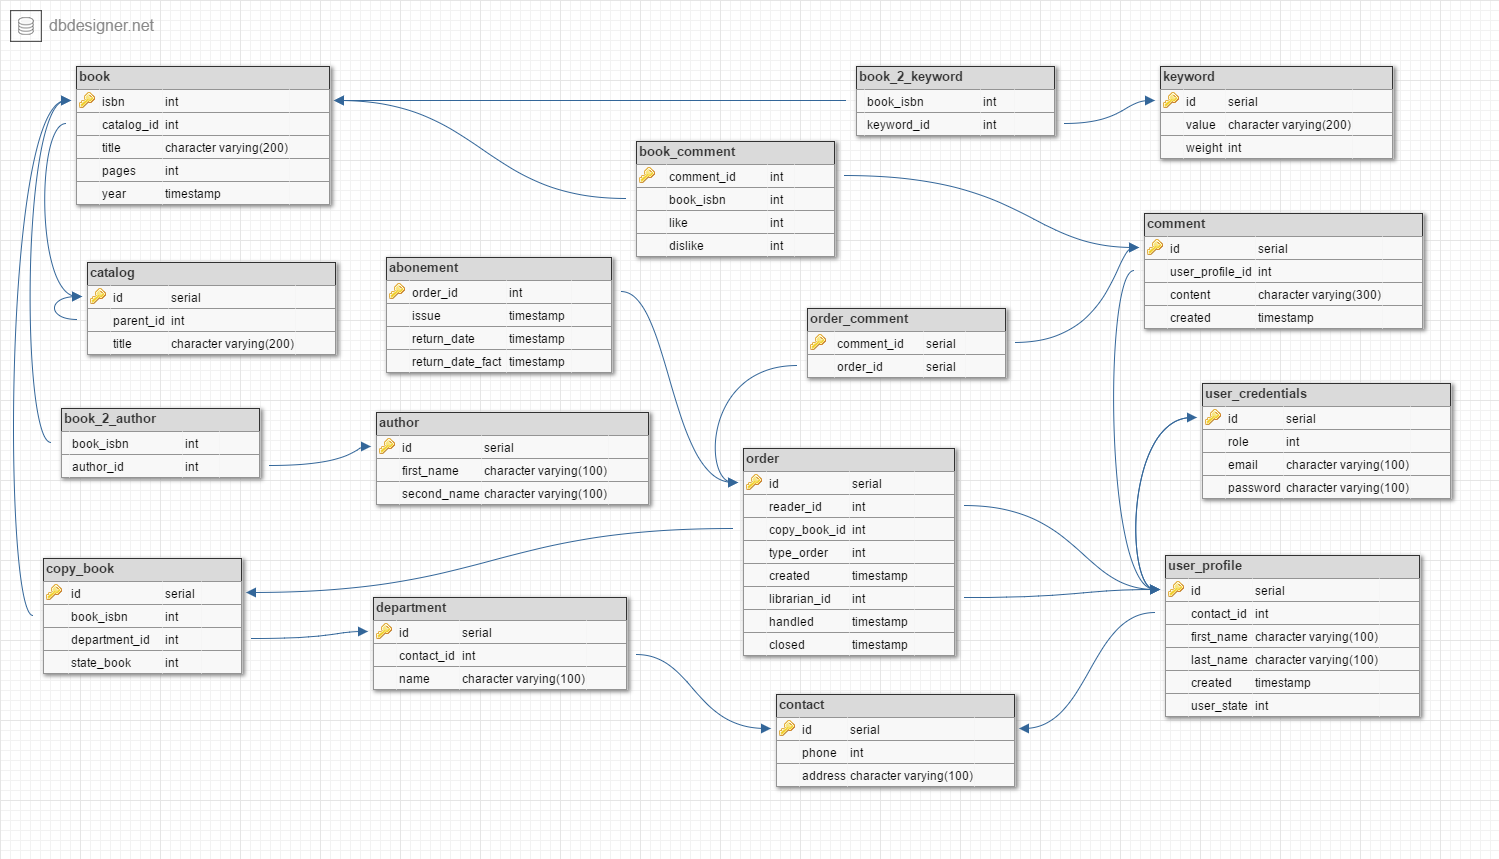
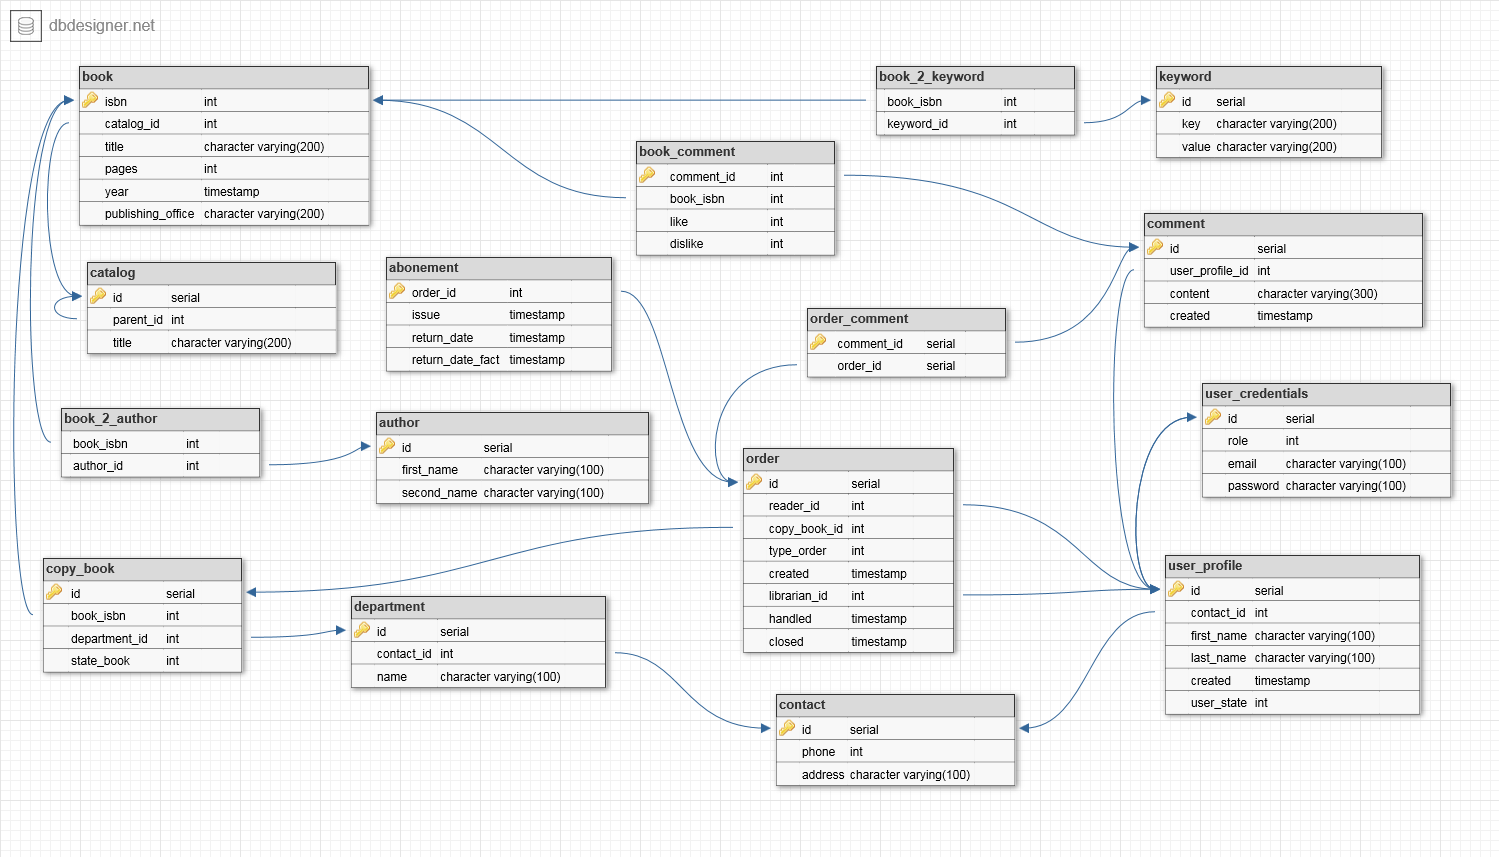
for first exsamen

diff --git a/datamodel/src/main/java/by/gmazurkevich/training/library/datamodel/Keyword.java b/datamodel/src/main/java/by/gmazurkevich/training/library/datamodel/Keyword.java
@@ -4,7 +4,7 @@ import java.util.List;
 
 public class Keyword extends AbstractModel {
 	private String value;
-	private Integer weight;
+	private String key;
 	private List<Book> book;
 
 	public String getValue() {
@@ -15,12 +15,12 @@ public class Keyword extends AbstractModel {
 		this.value = value;
 	}
 
-	public Integer getWeight() {
-		return weight;
+	public String getKey() {
+		return key;
 	}
 
-	public void setWeight(Integer weight) {
-		this.weight = weight;
+	public void setKey(String key) {
+		this.key = key;
 	}
 
 	public List<Book> getBook() {
@@ -30,4 +30,5 @@ public class Keyword extends AbstractModel {
 	public void setBook(List<Book> book) {
 		this.book = book;
 	}
+
 }

diff --git a/datamodel/src/main/java/by/gmazurkevich/training/library/datamodel/Book.java b/datamodel/src/main/java/by/gmazurkevich/training/library/datamodel/Book.java
@@ -13,6 +13,7 @@ public class Book {
 	private List<Author> author;
 	private List<BookComment> bookComment;
 	private List<Keyword> keyword;
+	private String publishingOffice;
 
 	public Long getIsbn() {
 		return isbn;
@@ -76,5 +77,13 @@ public class Book {
 
 	public void setKeyword(List<Keyword> keyword) {
 		this.keyword = keyword;
+	}
+
+	public String getPublishingOffice() {
+		return publishingOffice;
+	}
+
+	public void setPublishingOffice(String publishingOffice) {
+		this.publishingOffice = publishingOffice;
 	}
 }
